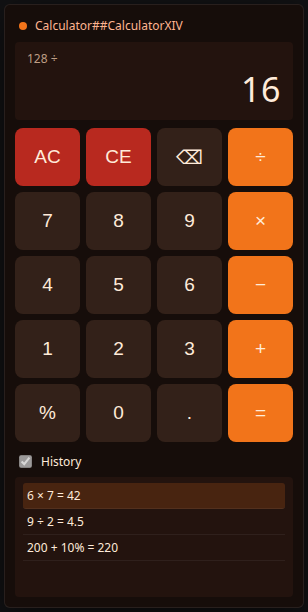
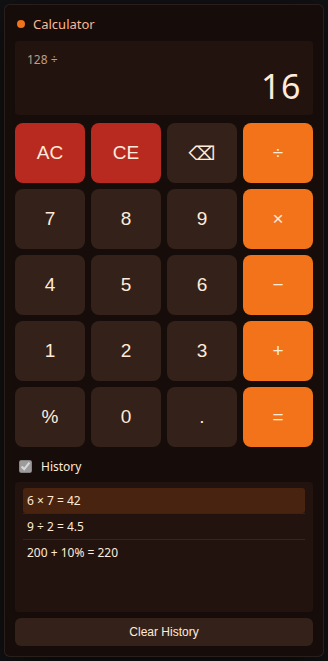
Refresh simulated screenshots for the latest UI build
Align the HTML preview with post-review CalculatorWindow behavior
(ImGui title, 60px keys, Clear History, Error path) and regenerate
the README screenshots, including a divide-by-zero Error shot.

Changed region(s): [[0.0292, 0.0931, 0.9643, 0.9003], [0.0584, 0.031, 0.5844, 0.1242], [0.3799, 0.9314, 0.6136, 0.9935]]

diff --git a/preview.html b/preview.html
@@ -4,17 +4,16 @@
 <meta charset="utf-8">
 <title>CalculatorXIV preview</title>
 <style>
+  /* Palette matched to CalculatorWindow.cs Vector4 theme (warm ember). */
   :root {
     --bg: #1c1c1e;
-    --calc-bg: rgba(23,13,10,0.97);
-    --panel: rgba(36,20,15,0.95);
-    --key: #332119;
-    --orange: #f2741a;
-    --orange-h: #ff8c33;
-    --red: #b8291f;
-    --red-h: #dc3d2e;
-    --text: #ffebd9;
-    --dim: #bf9e85;
+    --calc-bg: rgba(23, 13, 10, 0.97); /* former BgDark */
+    --panel: rgba(36, 20, 15, 0.95);    /* Panel 0.14,0.08,0.06 */
+    --key: #33211a;                    /* KeyPad 0.20,0.13,0.10 */
+    --orange: #f2731a;                 /* AccentOrange 0.95,0.45,0.10 */
+    --red: #b8291f;                    /* AccentRed 0.72,0.16,0.12 */
+    --text: #ffebd9;                   /* TextWarm 1,0.92,0.85 */
+    --dim: #bf9e85;                    /* TextDim 0.75,0.62,0.52 */
     --title: #ffb591;
   }
   * { box-sizing: border-box; }
@@ -42,7 +41,7 @@
       radial-gradient(ellipse at 80% 70%, rgba(90, 50, 30, 0.35), transparent 45%),
       linear-gradient(160deg, #1a2430 0%, #0e141c 45%, #1c1814 100%);
     width: 960px;
-    height: 540px;
+    height: 720px;
     display: flex;
     align-items: center;
     justify-content: center;
@@ -74,38 +73,67 @@
     text-transform: uppercase;
     z-index: 0;
   }
-  .hud strong { display: block; color: rgba(255, 210, 160, 0.7); font-size: 13px; letter-spacing: 0.04em; margin-bottom: 4px; text-transform: none; }
+  .hud strong {
+    display: block;
+    color: rgba(255, 210, 160, 0.7);
+    font-size: 13px;
+    letter-spacing: 0.04em;
+    margin-bottom: 4px;
+    text-transform: none;
+  }
   .calc {
-    width: 300px;
+    width: 320px;
     border-radius: 6px;
     overflow: hidden;
     background: var(--calc-bg);
     border: 1px solid rgba(255,255,255,0.08);
     box-shadow: 0 10px 40px rgba(0,0,0,0.6);
-    padding: 10px;
+    padding: 10px; /* ImGui WindowPadding */
     position: relative;
     z-index: 1;
   }
   body.overlay .calc {
     box-shadow: 0 16px 50px rgba(0,0,0,0.75), 0 0 0 1px rgba(255,180,120,0.08);
   }
-  .titlebar { display: flex; align-items: center; gap: 8px; padding: 2px 4px 8px; }
-  .titlebar .dot { width: 8px; height: 8px; border-radius: 50%; background: var(--orange); }
-  .titlebar span { color: var(--title); font-size: 12px; }
+  .titlebar {
+    display: flex;
+    align-items: center;
+    gap: 8px;
+    padding: 0 2px 8px;
+  }
+  .titlebar .dot {
+    width: 8px;
+    height: 8px;
+    border-radius: 50%;
+    background: var(--orange);
+  }
+  .titlebar span { color: var(--title); font-size: 13px; }
   .display {
     background: var(--panel);
     border-radius: 4px;
-    padding: 8px 12px;
+    padding: 10px 12px;
     margin-bottom: 8px;
+    min-height: 74px; /* ImGui display child */
+    display: flex;
+    flex-direction: column;
+    justify-content: space-between;
   }
-  .sub { color: var(--dim); font-size: 12px; text-align: left; height: 16px; }
-  .result { color: var(--text); font-size: 34px; text-align: right; font-weight: 300; letter-spacing: 0.5px; }
+  .sub { color: var(--dim); font-size: 12px; text-align: left; min-height: 16px; }
+  .result {
+    color: var(--text);
+    font-size: 34px;
+    text-align: right;
+    font-weight: 300;
+    letter-spacing: 0.5px;
+    line-height: 1.1;
+  }
   .result.small { font-size: 22px; }
+  .result.error { color: #ffb4a8; }
   .grid { display: grid; grid-template-columns: repeat(4, 1fr); gap: 6px; }
   button {
-    height: 58px;
+    height: 60px; /* ImGui button size */
     border: none;
-    border-radius: 8px;
+    border-radius: 8px; /* FrameRounding */
     cursor: pointer;
     font-size: 19px;
     color: var(--text);
@@ -113,26 +141,49 @@
   }
   .op { background: var(--orange); }
   .clear { background: var(--red); }
-  .pressed { filter: brightness(1.35); outline: 2px solid rgba(255,235,217,0.35); outline-offset: -2px; }
+  .pressed {
+    filter: brightness(1.35);
+    outline: 2px solid rgba(255,235,217,0.35);
+    outline-offset: -2px;
+  }
   .hist { margin-top: 10px; }
-  .hist label { color: var(--text); font-size: 12px; display: flex; align-items: center; gap: 6px; }
+  .hist label {
+    color: var(--text);
+    font-size: 12px;
+    display: flex;
+    align-items: center;
+    gap: 6px;
+  }
   .histbox {
     background: var(--panel);
     border-radius: 4px;
     margin-top: 6px;
-    height: 120px;
+    height: 130px; /* ImGui history child */
     overflow: hidden;
     padding: 6px 8px;
     font-size: 12px;
   }
-  .histbox div {
+  .histbox .empty { color: var(--dim); padding: 4px; }
+  .histbox .row {
     color: var(--text);
     padding: 4px;
-    border-bottom: 1px solid rgba(255,255,255,0.06);
   }
-  .histbox div:first-child {
-    background: rgba(242,116,26,0.18);
+  .histbox .row + .row {
+    border-top: 1px solid rgba(255,255,255,0.08);
+  }
+  .histbox .row:first-child {
+    background: rgba(242, 115, 26, 0.18);
     border-radius: 3px;
+  }
+  .clear-hist {
+    margin-top: 6px;
+    width: 100%;
+    height: 28px;
+    font-size: 12px;
+    border-radius: 6px;
+    background: var(--key);
+    color: var(--text);
+    border: none;
   }
   .card {
     display: flex;
@@ -142,7 +193,7 @@
   .card .caption {
     color: #888;
     font-size: 12px;
-    max-width: 300px;
+    max-width: 320px;
   }
   .note { color: #888; font-size: 12px; max-width: 260px; align-self: center; }
 </style>
@@ -152,6 +203,8 @@
   const params = new URLSearchParams(location.search);
   const mode = params.get("mode") || "gallery";
 
+  // States reflect post-#1 CalculatorWindow behavior (theme for full frame,
+  // CE keeps pending subDisplay, divide-by-zero → Error, Clear History).
   const states = {
     result: {
       sub: "\u00a0",
@@ -161,6 +214,7 @@
       press: null,
     },
     mid: {
+      // After entering 128 ÷ 16 (pending next key / equals)
       sub: "128 ÷",
       result: "16",
       history: true,
@@ -181,15 +235,31 @@
       lines: ["1000 + 337 = 1337", "50 × 2 = 100", "9 ÷ 3 = 3"],
       press: "=",
     },
+    error: {
+      // Divide-by-zero resets to Error (CalculatorState / ApplyOp path)
+      sub: "\u00a0",
+      result: "Error",
+      history: true,
+      lines: ["6 × 7 = 42"],
+      press: "=",
+      isError: true,
+    },
   };
 
   function renderCalc(state, extraClass = "") {
-    const hist = state.history
-      ? `<div class="hist">
+    let hist;
+    if (state.history) {
+      const body = state.lines.length
+        ? state.lines.map((l) => `<div class="row">${l}</div>`).join("")
+        : `<div class="empty">No calculations yet.</div>`;
+      hist = `<div class="hist">
           <label><input type="checkbox" checked disabled> History</label>
-          <div class="histbox">${state.lines.map((l) => `<div>${l}</div>`).join("")}</div>
-        </div>`
-      : `<div class="hist"><label><input type="checkbox" disabled> History</label></div>`;
+          <div class="histbox">${body}</div>
+          <button class="clear-hist" type="button">Clear History</button>
+        </div>`;
+    } else {
+      hist = `<div class="hist"><label><input type="checkbox" disabled> History</label></div>`;
+    }
 
     const keys = [
       ["AC", "clear"], ["CE", "clear"], ["⌫", ""], ["÷", "op"],
@@ -201,13 +271,19 @@
     const grid = keys
       .map(([label, cls]) => {
         const pressed = state.press === label ? " pressed" : "";
-        return `<button class="${cls}${pressed}">${label}</button>`;
+        return `<button class="${cls}${pressed}" type="button">${label}</button>`;
       })
       .join("");
 
-    const resultClass = state.result.length > 9 ? "result small" : "result";
+    const resultClass = [
+      "result",
+      state.result.length > 9 ? "small" : "",
+      state.isError ? "error" : "",
+    ].filter(Boolean).join(" ");
+
+    // ImGui window title is the text before "##" in "Calculator##CalculatorXIV"
     return `<div class="calc ${extraClass}">
-      <div class="titlebar"><div class="dot"></div><span>Calculator##CalculatorXIV</span></div>
+      <div class="titlebar"><div class="dot"></div><span>Calculator</span></div>
       <div class="display">
         <div class="sub">${state.sub}</div>
         <div class="${resultClass}">${state.result}</div>
@@ -220,10 +296,11 @@
   if (mode === "gallery") {
     document.body.className = "gallery";
     document.body.innerHTML = `
-      <div class="card">${renderCalc(states.result)}<div class="caption">Result with history open</div></div>
+      <div class="card">${renderCalc(states.result)}<div class="caption">Result with history + Clear History</div></div>
       <div class="card">${renderCalc(states.mid)}<div class="caption">Mid-operation (pending ÷)</div></div>
       <div class="card">${renderCalc(states.compact)}<div class="caption">Compact — history hidden</div></div>
-      <p class="note">HTML replica of the ImGui window — same palette, layout and button grid as the in-game plugin.</p>
+      <div class="card">${renderCalc(states.error)}<div class="caption">Divide-by-zero Error</div></div>
+      <p class="note">HTML replica of the ImGui window after the review-findings build — same palette, sizing, Clear History, and Error path as CalculatorWindow.cs.</p>
     `;
   } else if (mode === "overlay") {
     document.body.className = "overlay";

diff --git a/README.md b/README.md
@@ -6,15 +6,15 @@ See [IDEA.md](IDEA.md) for the original goal.
 
 ## Simulated screenshots
 
-These are HTML mockups of the ImGui window (same warm ember palette and layout as `CalculatorWindow.cs`). Open [`preview.html`](preview.html) for an interactive gallery.
+HTML mockups of the ImGui window after the review-findings build (warm ember palette, `Clear History`, divide-by-zero `Error`). Open [`preview.html`](preview.html) for an interactive gallery.
 
 | Result + history | Mid-operation | Compact |
 | --- | --- | --- |
 | ![Result with history](screenshots/calc_result_history.png) | ![Pending division](screenshots/calc_mid_operation.png) | ![History hidden](screenshots/calc_compact.png) |
 
-**In-game overlay mock** (how the floating Dalamud window might sit over the HUD):
-
-![In-game overlay](screenshots/calc_ingame_overlay.png)
+| In-game overlay | Divide-by-zero Error |
+| --- | --- |
+| ![In-game overlay](screenshots/calc_ingame_overlay.png) | ![Error state](screenshots/calc_error.png) |
 
 ## Layout
 
@@ -22,7 +22,7 @@ These are HTML mockups of the ImGui window (same warm ember palette and layout a
 - `CalculatorWindow.cs`: calculator UI.
 - `CalculatorState.cs`: calculator state.
 - `CalculatorXIV.Tests/`: unit tests for `CalculatorState`.
-- `preview.html`: UI preview (modes via `?mode=result|mid|compact|overlay|gallery`).
+- `preview.html`: UI preview (modes via `?mode=result|mid|compact|overlay|error|gallery`).
 - `screenshots/`: simulated PNGs rendered from the preview.
 
 ## Build
